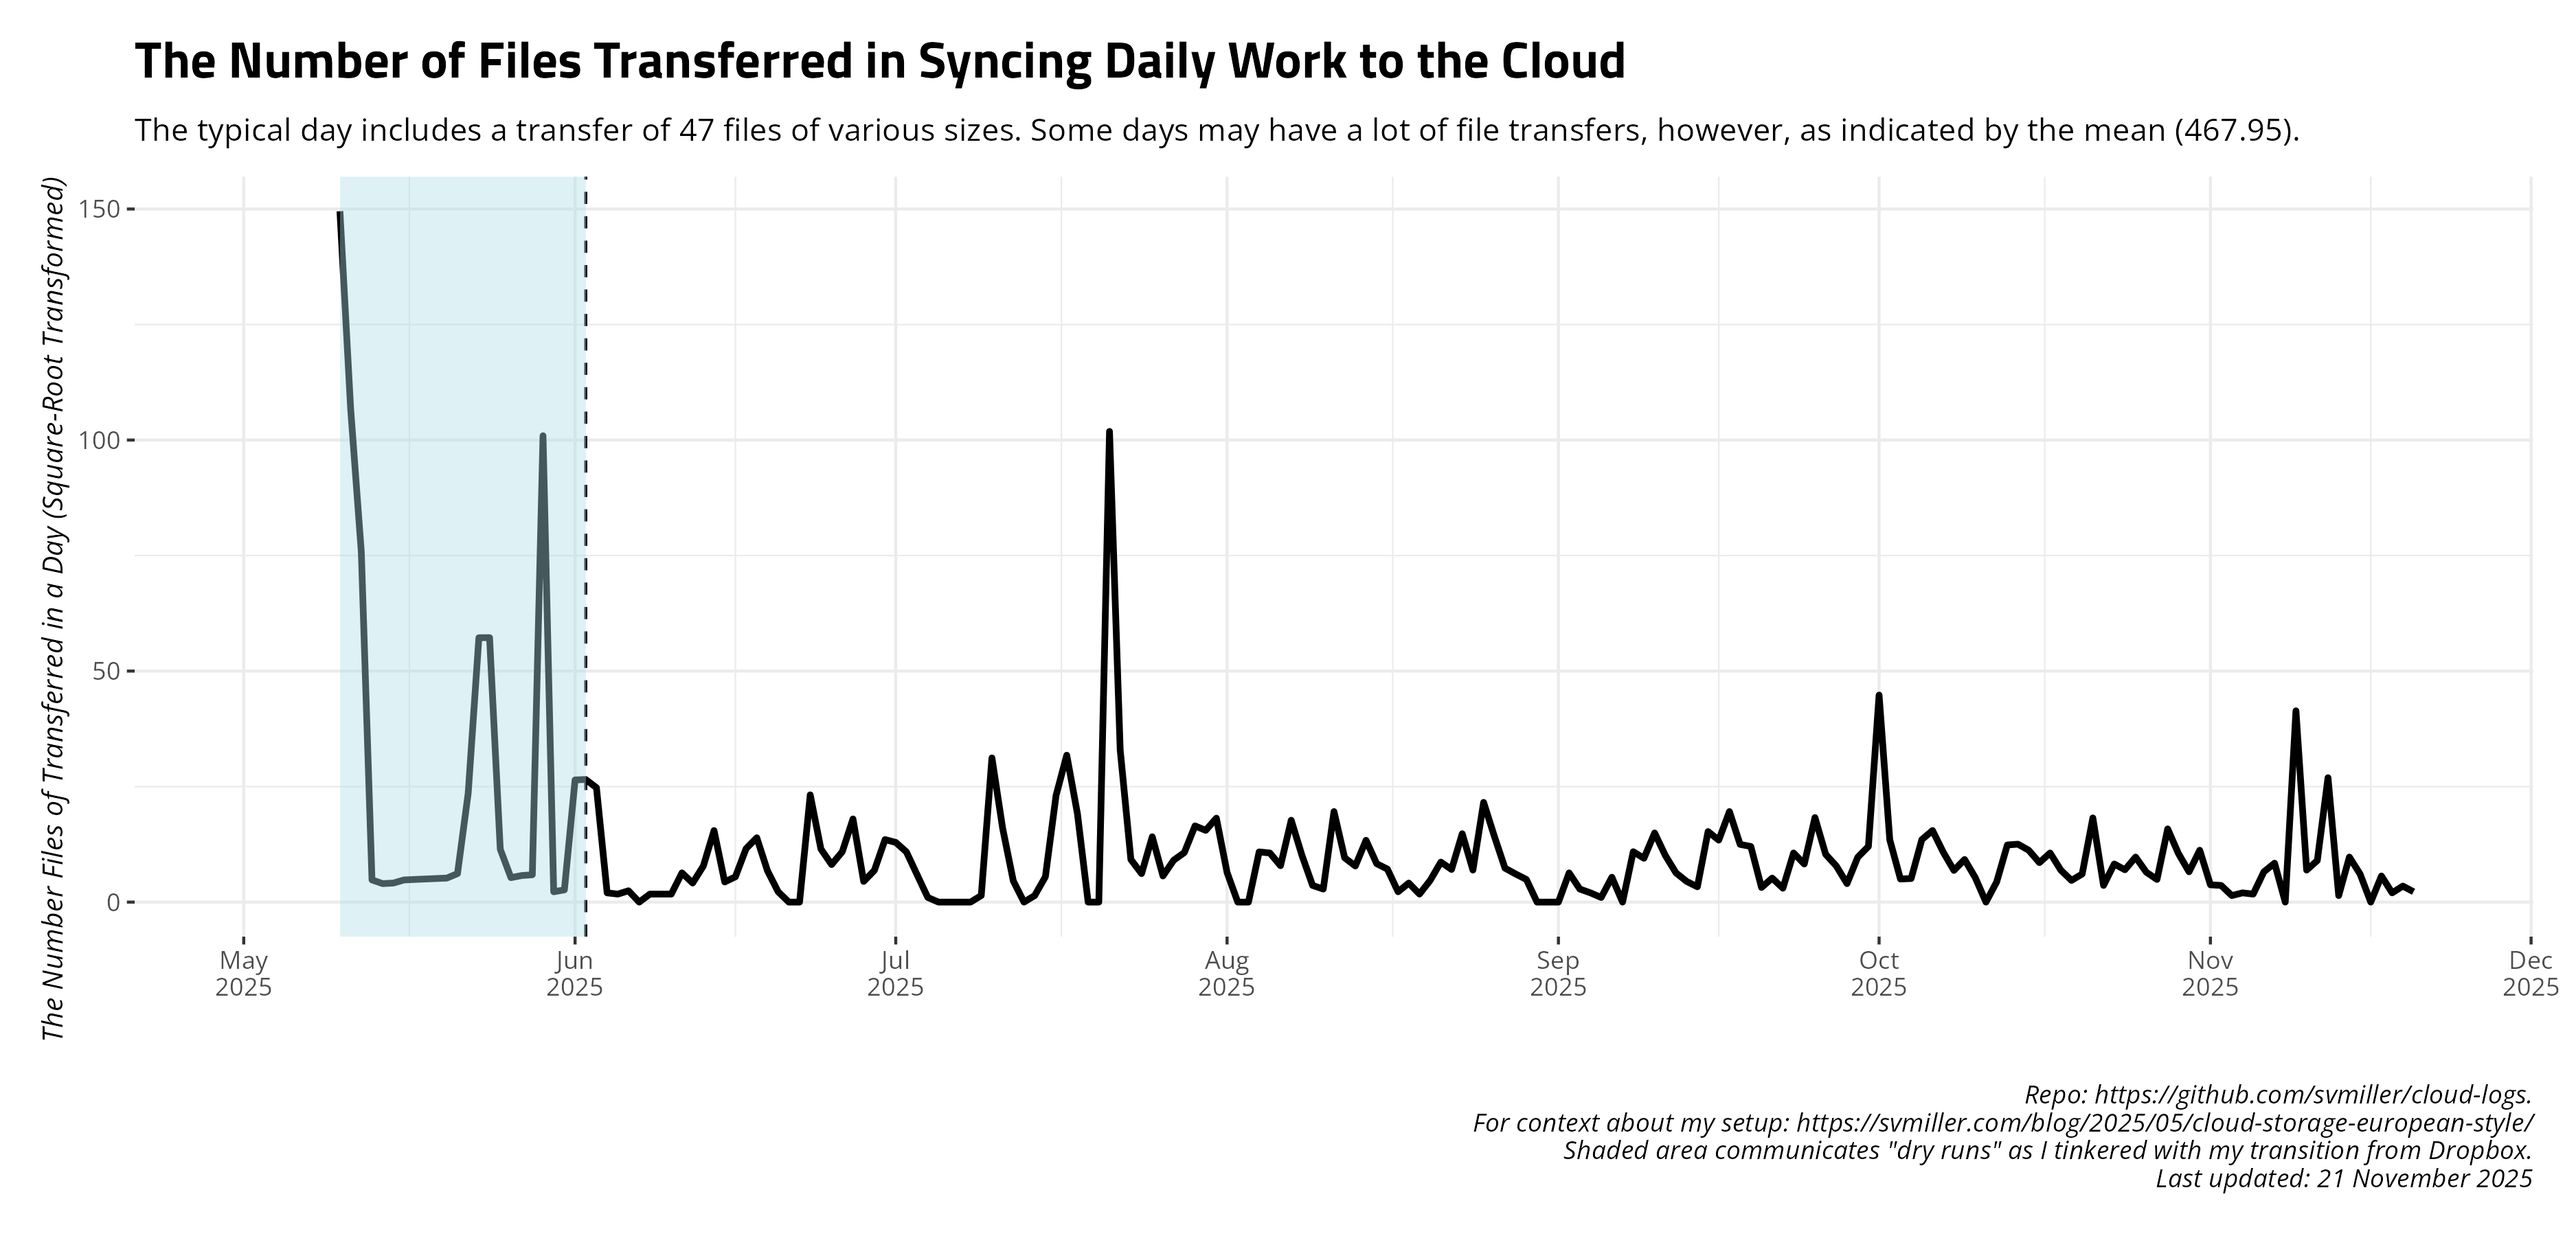
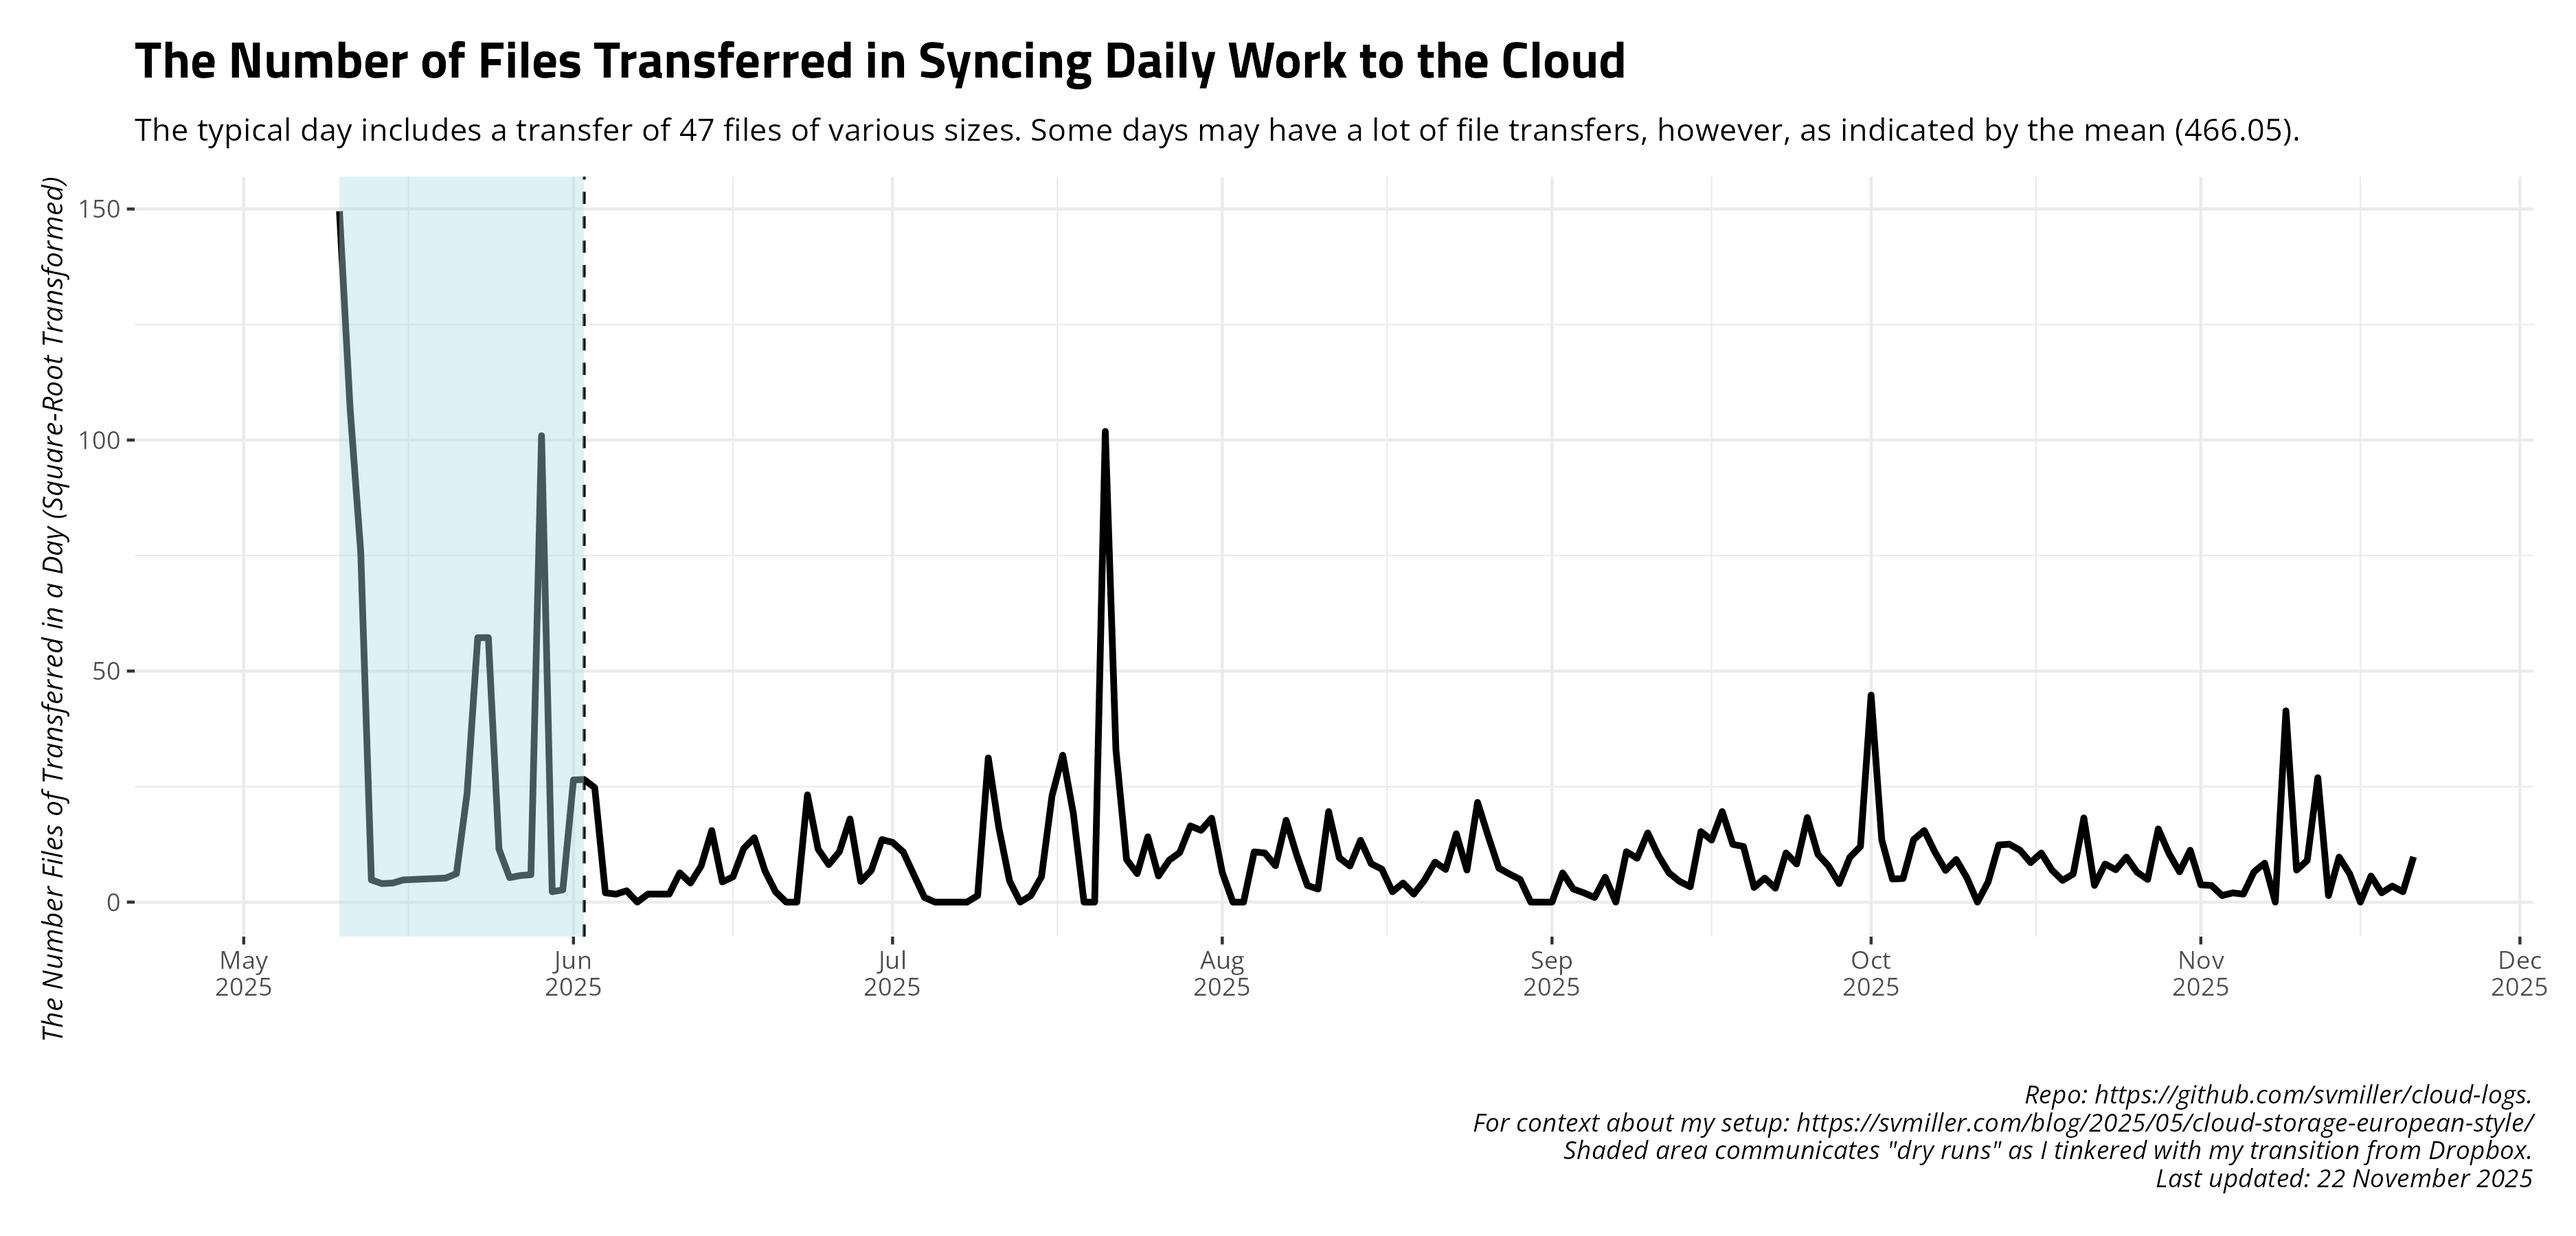
Date: 2025-11-22 09:00:17. Hi mom!

diff --git a/README.md b/README.md
@@ -27,17 +27,17 @@ and uploads to Github.
     #> # A tibble: 14 × 4
     #>    date       ftransfer stransfer   elapsed
     #>    <date>         <dbl> <chr>       <chr>  
-    #>  1 2025-11-07        71 8.049 MiB   5m11.1s
-    #>  2 2025-11-08         0 <NA>        4m52.9s
-    #>  3 2025-11-09      1714 143.133 MiB 5m4.7s 
-    #>  4 2025-11-10        48 1.490 MiB   4m52.7s
-    #>  5 2025-11-11        81 1.673 MiB   5m1.9s 
-    #>  6 2025-11-12       725 18.854 MiB  5m33.3s
-    #>  7 2025-11-13         2 1.737 MiB   7m23.6s
-    #>  8 2025-11-14        95 1.137 MiB   4m44.7s
-    #>  9 2025-11-15        37 820.913 KiB 4m56.9s
-    #> 10 2025-11-16         0 <NA>        4m59.2s
-    #> 11 2025-11-17        32 359.220 KiB 4m54.7s
-    #> 12 2025-11-18         4 1.671 MiB   4m58.9s
-    #> 13 2025-11-19        12 3.454 MiB   4m58.5s
-    #> 14 2025-11-20         5 289.079 KiB 4m51.0s
+    #>  1 2025-11-08         0 <NA>        4m52.9s
+    #>  2 2025-11-09      1714 143.133 MiB 5m4.7s 
+    #>  3 2025-11-10        48 1.490 MiB   4m52.7s
+    #>  4 2025-11-11        81 1.673 MiB   5m1.9s 
+    #>  5 2025-11-12       725 18.854 MiB  5m33.3s
+    #>  6 2025-11-13         2 1.737 MiB   7m23.6s
+    #>  7 2025-11-14        95 1.137 MiB   4m44.7s
+    #>  8 2025-11-15        37 820.913 KiB 4m56.9s
+    #>  9 2025-11-16         0 <NA>        4m59.2s
+    #> 10 2025-11-17        32 359.220 KiB 4m54.7s
+    #> 11 2025-11-18         4 1.671 MiB   4m58.9s
+    #> 12 2025-11-19        12 3.454 MiB   4m58.5s
+    #> 13 2025-11-20         5 289.079 KiB 4m51.0s
+    #> 14 2025-11-21        96 19.696 MiB  4m13.3s
